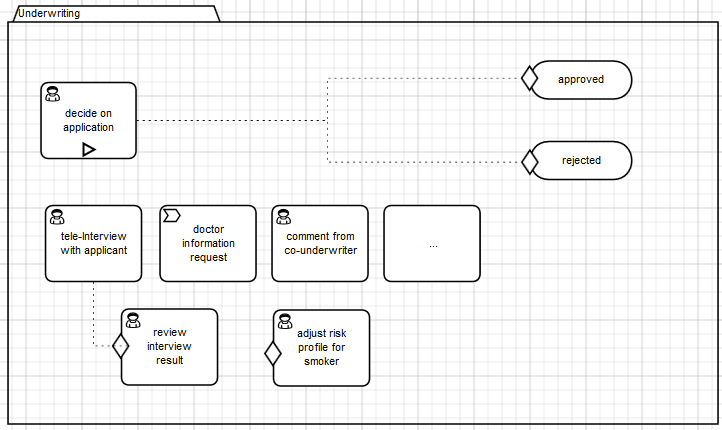
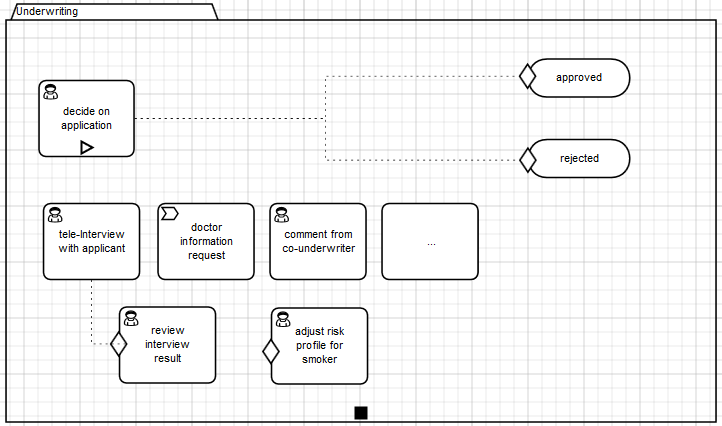
added auto complete marker to case

diff --git a/one-time-examples/2015-01-webinars/webinar-cmmn/src/test/java/com/camunda/demo/webinar/cmmn/InMemoryH2Test.java b/one-time-examples/2015-01-webinars/webinar-cmmn/src/test/java/com/camunda/demo/webinar/cmmn/InMemoryH2Test.java
@@ -1,28 +1,33 @@
 package com.camunda.demo.webinar.cmmn;
 
-import java.util.Iterator;
+import static org.camunda.bpm.engine.test.assertions.ProcessEngineAssertions.assertThat;
+import static org.camunda.bpm.engine.test.assertions.ProcessEngineAssertions.init;
+import static org.camunda.bpm.engine.test.assertions.ProcessEngineAssertions.processEngine;
+import static org.camunda.bpm.engine.test.assertions.ProcessEngineTests.complete;
+import static org.junit.Assert.assertEquals;
+import static org.junit.Assert.assertNotNull;
+import static org.junit.Assert.assertTrue;
+
 import java.util.List;
 
-import org.apache.ibatis.logging.LogFactory;
+import org.camunda.bpm.engine.ProcessEngine;
 import org.camunda.bpm.engine.history.HistoricCaseActivityInstance;
 import org.camunda.bpm.engine.history.HistoricCaseInstance;
 import org.camunda.bpm.engine.impl.cmmn.entity.runtime.CaseExecutionEntity;
-import org.camunda.bpm.engine.impl.cmmn.entity.runtime.CaseSentryPartEntity;
-import org.camunda.bpm.engine.impl.cmmn.execution.CaseExecutionState;
 import org.camunda.bpm.engine.impl.persistence.entity.HistoricCaseActivityInstanceEntity;
-import org.camunda.bpm.engine.impl.util.LogUtil;
 import org.camunda.bpm.engine.runtime.CaseExecution;
 import org.camunda.bpm.engine.runtime.CaseInstance;
 import org.camunda.bpm.engine.runtime.ProcessInstance;
 import org.camunda.bpm.engine.task.Task;
-import org.camunda.bpm.engine.test.ProcessEngineRule;
 import org.camunda.bpm.engine.test.Deployment;
+import org.camunda.bpm.engine.test.ProcessEngineRule;
+import org.camunda.bpm.engine.variable.VariableMap;
+import org.camunda.bpm.engine.variable.Variables;
 import org.junit.Before;
 import org.junit.Rule;
 import org.junit.Test;
 
-import static org.camunda.bpm.engine.test.assertions.ProcessEngineTests.*;
-import static org.junit.Assert.*;
+import com.camunda.demo.webinar.cmmn.domain.Application;
 
 /**
  * Test case starting an in-memory database-backed Process Engine.
@@ -63,32 +68,50 @@ public class InMemoryH2Test {
   @Test
   @Deployment(resources = "underwriting-case.cmmn")
   public void testUnderwritingCase() {
-    CaseInstance caseInstance = processEngine().getCaseService().createCaseInstanceByKey("underwriting");
+    ProcessEngine processEngine = processEngine();
+    
+    // HashMap containing variables to be added to case instance
+    VariableMap variables = Variables.createVariables().putValue("application", new Application());
+    
+    // create the case instance
+    CaseInstance caseInstance = processEngine.getCaseService().createCaseInstanceByKey("underwriting", variables);
 
-    List<Task> tasks = processEngine().getTaskService().createTaskQuery().initializeFormKeys().list();
+    // load tasks via Query API and assert that we have one task created (corresponding to one active Activity)
+    List<Task> tasks = processEngine.getTaskService().createTaskQuery().list();
     assertEquals(1, tasks.size());
+    // use camunda assertions to check we created the right task:
+    assertThat(tasks.get(0)).hasDefinitionKey("PI_humanTaskDecide"); 
 
-    assertThat(tasks.get(0)).hasDefinitionKey("PI_humanTaskDecide");
-    assertEquals("app:form-decide-application.jsf", tasks.get(0).getFormKey());
-
-    List<CaseExecution> caseExecutions = processEngine().getCaseService().createCaseExecutionQuery().list();// .caseInstanceId(caseInstanceId)
+    // load all so called "executions" of a Case Instance, basically corresponding to Activities in our case
+    List<CaseExecution> caseExecutions = processEngine.getCaseService().createCaseExecutionQuery().list();
     for (CaseExecution caseExecution : caseExecutions) {
-      if (caseExecution.isEnabled()) {
-        System.out.println("Possible: " + caseExecution.getActivityName());
+      if (caseExecution.isAvailable()) {
+        System.out.println("Impossible to start ('available'): " + caseExecution.getActivityName() + " [" + caseExecution.getActivityType() + "]");
+      } else if (caseExecution.isEnabled()) {
+        System.out.println("Possible to start ('enabled'): " + caseExecution.getActivityName() + " [" + caseExecution.getActivityType() + "]");
+      } else if (caseExecution.isActive()) {
+        System.out.println("Running ('active'): " + caseExecution.getActivityName() + " [" + caseExecution.getActivityType() + "]");
       }
     }
+    processEngine.getCaseService().setVariable(caseInstance.getId(), "approved", Boolean.TRUE);
 
-    processEngine().getCaseService().setVariable(caseInstance.getId(), "approved", Boolean.TRUE);
+    // complete task - changes the state of the case instance
+    processEngine.getTaskService().complete(tasks.get(0).getId());
+    
+    // we could check completed activities now: 
+    processEngine.getHistoryService().createHistoricCaseActivityInstanceQuery()
+      .caseInstanceId(caseInstance.getId()).list();
 
-    complete(tasks.get(0));
-
+    if (true)
+      return;
+    
     System.out.println("####################");
-    caseExecutions = processEngine().getCaseService().createCaseExecutionQuery().caseInstanceId(caseInstance.getId()).list();
+    caseExecutions = processEngine.getCaseService().createCaseExecutionQuery().caseInstanceId(caseInstance.getId()).list();
     for (CaseExecution otherCaseExecution : caseExecutions) {
       System.out.println(otherCaseExecution.getActivityName() + " -> " + ((CaseExecutionEntity) otherCaseExecution).getCurrentState().toString());
     }
     System.out.println("####################");
-    List<HistoricCaseActivityInstance> caseActivityInstances = processEngine().getHistoryService().createHistoricCaseActivityInstanceQuery()
+    List<HistoricCaseActivityInstance> caseActivityInstances = processEngine.getHistoryService().createHistoricCaseActivityInstanceQuery()
         .caseInstanceId(caseInstance.getId()).list();
     for (HistoricCaseActivityInstance historicCaseActivityInstance : caseActivityInstances) {
       System.out.println(historicCaseActivityInstance.getCaseActivityName() + " -> "
@@ -96,24 +119,25 @@ public class InMemoryH2Test {
     }
     System.out.println("####################");
 
-    caseInstance = processEngine().getCaseService().createCaseInstanceQuery().caseInstanceId(caseInstance.getId()).singleResult();
+    caseInstance = processEngine.getCaseService().createCaseInstanceQuery().caseInstanceId(caseInstance.getId()).singleResult();
     assertTrue(caseInstance.isCompleted());
 
-    HistoricCaseInstance historicCaseInstance = processEngine().getHistoryService().createHistoricCaseInstanceQuery().caseInstanceId(caseInstance.getId())
+    HistoricCaseInstance historicCaseInstance = processEngine.getHistoryService().createHistoricCaseInstanceQuery().caseInstanceId(caseInstance.getId())
         .singleResult();
     assertTrue(historicCaseInstance.isCompleted());
 
-    processEngine().getCaseService().closeCaseInstance(caseInstance.getId());
+    processEngine.getCaseService().closeCaseInstance(caseInstance.getId());
 
-    assertEquals(0, processEngine().getCaseService().createCaseInstanceQuery().caseInstanceId(caseInstance.getId()).count());
+    assertEquals(0, processEngine.getCaseService().createCaseInstanceQuery().caseInstanceId(caseInstance.getId()).count());
 
   }
 
   @Test
   @Deployment(resources = {"underwriting-case.cmmn", "underwriting-process.bpmn"})
   public void testUnderwritingProcessIncludingCase() {
-    
-    ProcessInstance pi = processEngine().getRuntimeService().startProcessInstanceByMessage(Constants.MSG_START_ELECTRONIC_APPLICATION);
+    VariableMap variables = Variables.createVariables().putValue("application", new Application());
+
+    ProcessInstance pi = processEngine().getRuntimeService().startProcessInstanceByMessage(Constants.MSG_START_ELECTRONIC_APPLICATION, variables);
     
     assertThat(pi).isWaitingFor(Constants.MSG_UNDERWRITING_FINISHED);
     CaseInstance caseInstance = processEngine().getCaseService().createCaseInstanceQuery() //

diff --git a/one-time-examples/2015-01-webinars/webinar-cmmn/README.md b/one-time-examples/2015-01-webinars/webinar-cmmn/README.md
@@ -22,10 +22,6 @@ unstructured phase of the real underwriting from a clerk starts:
 
 ![BPMN Process and CMMN Case](docs/process-and-case.png)
 
-Currently calling a Case from BPMN is not yet supported (but planned for Camunda BPM 7.3) - so you need a small workaround
-to start a case instance and wait for its completion:
-
-![BPMN Process](docs/call-cmmn-from-bpmn.png)
 
 The UI now visualizes all Tasks from Task Management for the case (basically "ACTIVE" activities from CMMN), 
 "ENABLED" Activities from CMMN and Historic Tasks from the engine history. Maybe this would be a good time to check out
@@ -33,13 +29,26 @@ the [CMMN Lifecycle in our docs](http://docs.camunda.org/latest/api-references/c
 
 ![BPMN Process](docs/case-ui.png)
 
-And as a last remark I want to point out that it is already built-in the CMMN to call processes from a case - no workaround necessary:
+And as a last remark I want to point out that it is already built-in the CMMN to call processes from a case:
 
 ![BPMN Process](docs/case-and-process.png)
 
 This allows you to use the right tool for the right job - BPMN for structured process parts and CMMN for unstructured ones:
 
 ![BPMN Process](docs/structured-vs-unstructured.png)
+
+
+Current Workarounds
+-------------------
+
+Currently calling a Case from BPMN is not yet supported (but already implemented in Camunda BPM 7.3 alpha1!) - so you need a small workaround
+to start a case instance and wait for its completion:
+
+![BPMN Process](docs/call-cmmn-from-bpmn.png)
+
+The "Auto-Complete" attribute of a case is not implemented in camunda BPM 7.2 (but already implemented in Camunda BPM 7.3 alpha1!) - hence you
+need a listener to auto complete the case instance (see listeners in CMMN.xml).
+
 
 How to use it?
 --------------
